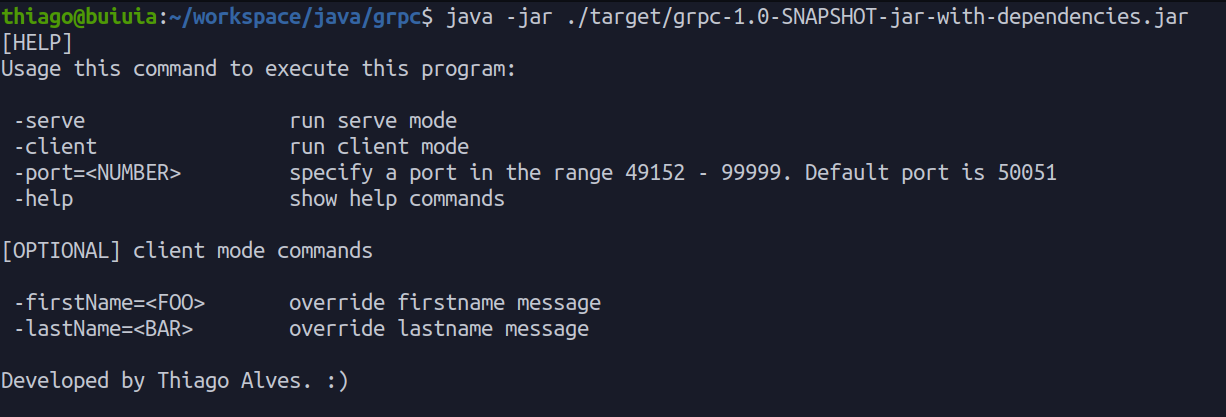
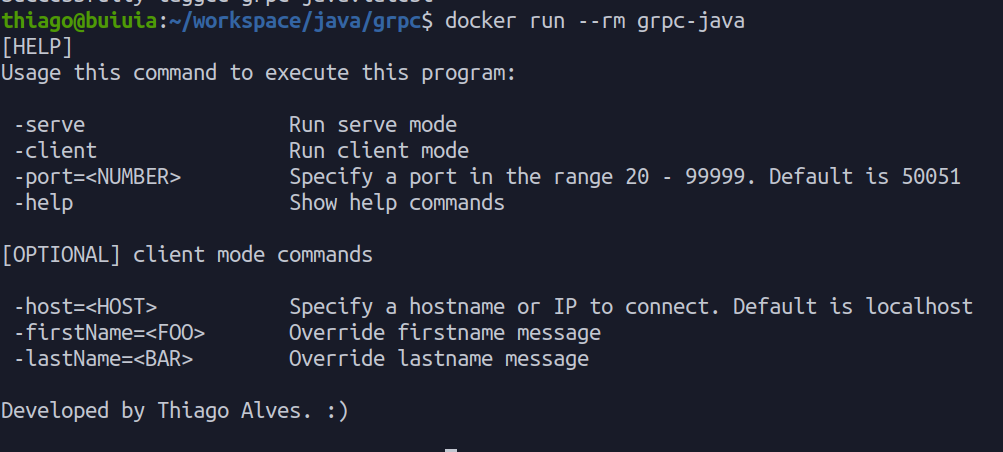
ref: update commands help description

diff --git a/src/main/java/com/example/grpc/cmd/Commands.java b/src/main/java/com/example/grpc/cmd/Commands.java
@@ -20,7 +20,7 @@ public abstract class Commands {
             .append(" ")
             .append(SERVE_MODE)
             .append("\t\t\t")
-            .append("run serve mode")
+            .append("Run serve mode")
             .append("\n")
             .toString();
   }
@@ -30,7 +30,7 @@ public abstract class Commands {
             .append(" ")
             .append(CLIENT_MODE)
             .append("\t\t")
-            .append("run client mode")
+            .append("Run client mode")
             .append("\n")
             .toString();
   }
@@ -41,7 +41,7 @@ public abstract class Commands {
             .append(PORT)
             .append("<NUMBER>")
             .append("\t\t")
-            .append("specify a port in the range ")
+            .append("Specify a port in the range ")
             .append(RANGE_START_PORT + " - " + RANGE_END_PORT + ". ")
             .append("Default is " + DEFAULT_PORT)
             .append("\n")
@@ -54,7 +54,7 @@ public abstract class Commands {
             .append(HOSTNAME)
             .append("<HOST>")
             .append("\t\t")
-            .append("specify a hostname or IP to connect. ")
+            .append("Specify a hostname or IP to connect. ")
             .append("Default is " + DEFAULT_HOST)
             .append("\n")
             .toString();
@@ -65,7 +65,7 @@ public abstract class Commands {
             .append(" ")
             .append(HELP)
             .append("\t\t\t")
-            .append("show help commands")
+            .append("Show help commands")
             .append("\n")
             .toString();
   }
@@ -76,7 +76,7 @@ public abstract class Commands {
             .append(FIRST_NAME)
             .append("<FOO>")
             .append("\t")
-            .append("override firstname message")
+            .append("Override firstname message")
             .append("\n")
             .toString();
   }
@@ -87,7 +87,7 @@ public abstract class Commands {
             .append(LAST_NAME)
             .append("<BAR>")
             .append("\t")
-            .append("override lastname message")
+            .append("Override lastname message")
             .append("\n")
             .toString();
   }

diff --git a/README.md b/README.md
@@ -25,14 +25,19 @@ Suas principais características que a tornam tão poderosa é a capacidade de c
 ![inteface](./doc/cmd-interface.png)
 
 ## Utilizando Docker
-Execute este comando no terminal:
+
+## Requisitos
+
+- Docker
+
+Execute este comandos no terminal:
 ```bash
 docker build -t grpc-java .
 docker run --rm --name serve -p 8080:50051 grpc-java -serve
 docker run --rm --name client grpc-java -client -host=<IP-LOCAL> -port=8080
 ```
 
-você pode querer criar um link entre os containers para se comunicarem sem necessáriamente expor a porta:
+Você pode querer criar um link entre os containers para se comunicarem sem necessáriamente expor a porta, exemplo:
 ```bash
 docker network create grpc
 docker run --rm --network=grpc --name=serve grpc-java -serve -port=50080
@@ -42,6 +47,8 @@ docker run --rm --network=grpc --name=client grpc-java -client -host=serve -port
 ### Adicional
 Por padrão, o servidor executa na porta `50051` como especificado em exemplos da página oficial do gRPC. 
 Mais informações sobre como utilizar a aplicação, digite `-help`
+
+## Buildando manualmente
 
 ## Requisitos
 
@@ -60,14 +67,14 @@ mvn clean package
 Executar no modo servidor
 
 ```bash
-java -jar ./target/grpc-1.0-SNAPSHOT-jar-with-dependencies.jar -serve
+java -jar ./target/grpc-java-jar-with-dependencies.jar -serve
 ```
 
 ## Passo 3
 Executar no modo client
 
 ```bash
-java -jar ./target/grpc-1.0-SNAPSHOT-jar-with-dependencies.jar -client
+java -jar ./target/grpc-java-jar-with-dependencies.jar -client
 ```
 
 
